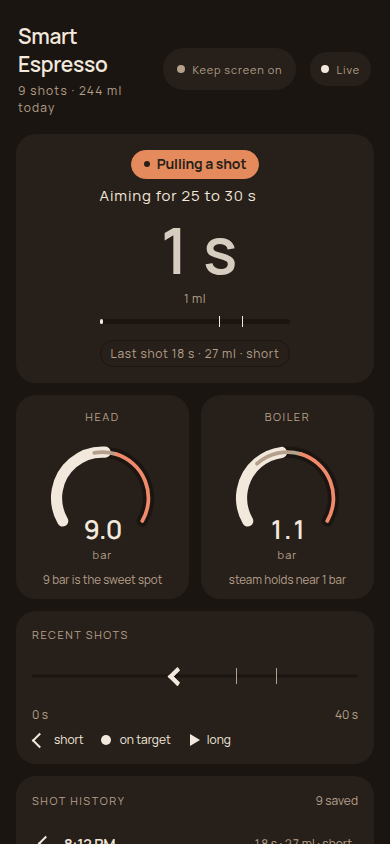
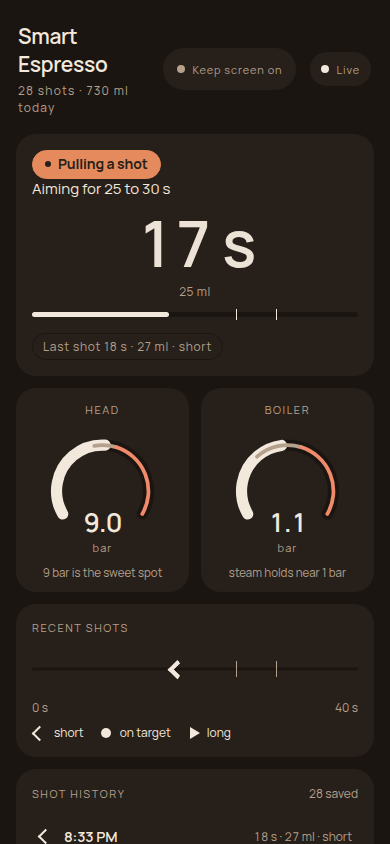
fix: left-align the shot pill and the aiming line
The connection pill's .live rule was also matching the state card, so
a shot centered the pill and the detail. Only the timer stays centred.

diff --git a/smart_espresso/web/static/index.html b/smart_espresso/web/static/index.html
@@ -129,7 +129,9 @@
     margin-top: 4px;
   }
 
-  .live {
+  /* Scoped to the header. The state card also uses the class live, and an
+     unscoped rule was centering that card's pill and detail. */
+  header .live {
     display: flex;
     align-items: center;
     gap: 7px;
@@ -150,7 +152,7 @@
   /* The wake-screen toggle wears the same pill as the connection lamp,
      but it is the interactive one, so it gets the full 44 px tap target
      and a label that says what it will do, not what it is. */
-  .live { min-height: 36px; }
+  header .live { min-height: 36px; }
   button.live { cursor: pointer; min-height: 44px; padding: 10px 14px; }
   button.live .dot { background: var(--ink-faint); }
   button.live.on { color: var(--ink); }
@@ -194,6 +196,8 @@
   .state {
     display: flex;
     flex-direction: column;
+    align-items: stretch;
+    text-align: left;
     padding: 16px;
     overflow: visible;
     background: var(--card);
@@ -201,6 +205,8 @@
 
   .state-band {
     display: flex;
+    align-self: stretch;
+    width: 100%;
     align-items: center;
     justify-content: flex-start;
     gap: 8px;
@@ -217,6 +223,7 @@
     display: flex;
     flex-wrap: wrap;
     align-items: center;
+    justify-content: flex-start;
     gap: 8px;
     width: 100%;
     min-width: 0;
@@ -273,7 +280,12 @@
     flex: none;
   }
 
-  .state-body { padding: 0; }
+  .state-body {
+    align-self: stretch;
+    width: 100%;
+    padding: 0;
+    text-align: left;
+  }
 
   .state-detail {
     font-size: 15px;
@@ -345,6 +357,8 @@
   .shot {
     display: flex;
     flex-direction: column;
+    align-self: stretch;
+    width: 100%;
     align-items: center;
     text-align: center;
     margin-top: 12px;

diff --git a/smart_espresso/web/static/sw.js b/smart_espresso/web/static/sw.js
@@ -2,7 +2,7 @@
 // still opens (slightly stale, clearly marked so by the page itself) when
 // the machine's server hiccups. Sensor data is never cached: /api/* always
 // goes to the network.
-const CACHE = 'espresso-shell-v14';
+const CACHE = 'espresso-shell-v15';
 const SHELL = [
   '/',
   '/dashboard_logic.js',

diff --git a/smart_espresso/test/test_dashboard_logic.py b/smart_espresso/test/test_dashboard_logic.py
@@ -391,6 +391,22 @@ class TestWording:
         assert "last shot ${" not in self.page
         assert call("logic.pillText(true, 1000)") == "Live"
 
+    def test_only_the_timer_stays_centred_during_a_shot(self):
+        state = _css_rule(self.page, ".state")
+        assert "align-items: stretch" in state
+        assert "text-align: left" in state
+        assert "text-align: left" in _css_rule(self.page, ".state-detail")
+        assert "justify-content: flex-start" in _css_rule(self.page, ".state-band")
+        assert "text-align: center" in _css_rule(self.page, ".shot")
+        assert "font-variant-numeric: tabular-nums" in _css_rule(self.page, ".shot b")
+        assert "font-variant-numeric: tabular-nums" in _css_rule(
+            self.page, ".ring-read b"
+        )
+        assert "font-variant-numeric: tabular-nums" in _css_rule(self.page, ".figure b")
+        # The connection pill shares the class live. Unscoped, it centers the card.
+        assert re.search(r"(^|\n)\s*\.live\s*\{", self.page) is None
+        assert "header .live {" in self.page
+
     def test_only_shot_history_shows_a_count(self):
         assert "history.length} shot" not in self.page
         assert "`${count} saved`" in self.page

diff --git a/smart_espresso/test/test_dashboard_contrast.py b/smart_espresso/test/test_dashboard_contrast.py
@@ -158,7 +158,7 @@ class TestDashboardContrast:
         assert "fonts.googleapis.com" not in self.worker
         assert "fonts.gstatic.com" not in self.worker
         assert "/fonts/manrope.woff2" in self.worker
-        assert "espresso-shell-v14" in self.worker
+        assert "espresso-shell-v15" in self.worker
         font = PAGE.parent / "fonts" / "manrope.woff2"
         assert font.is_file()
         assert font.read_bytes()[:4] == b"wOF2"
